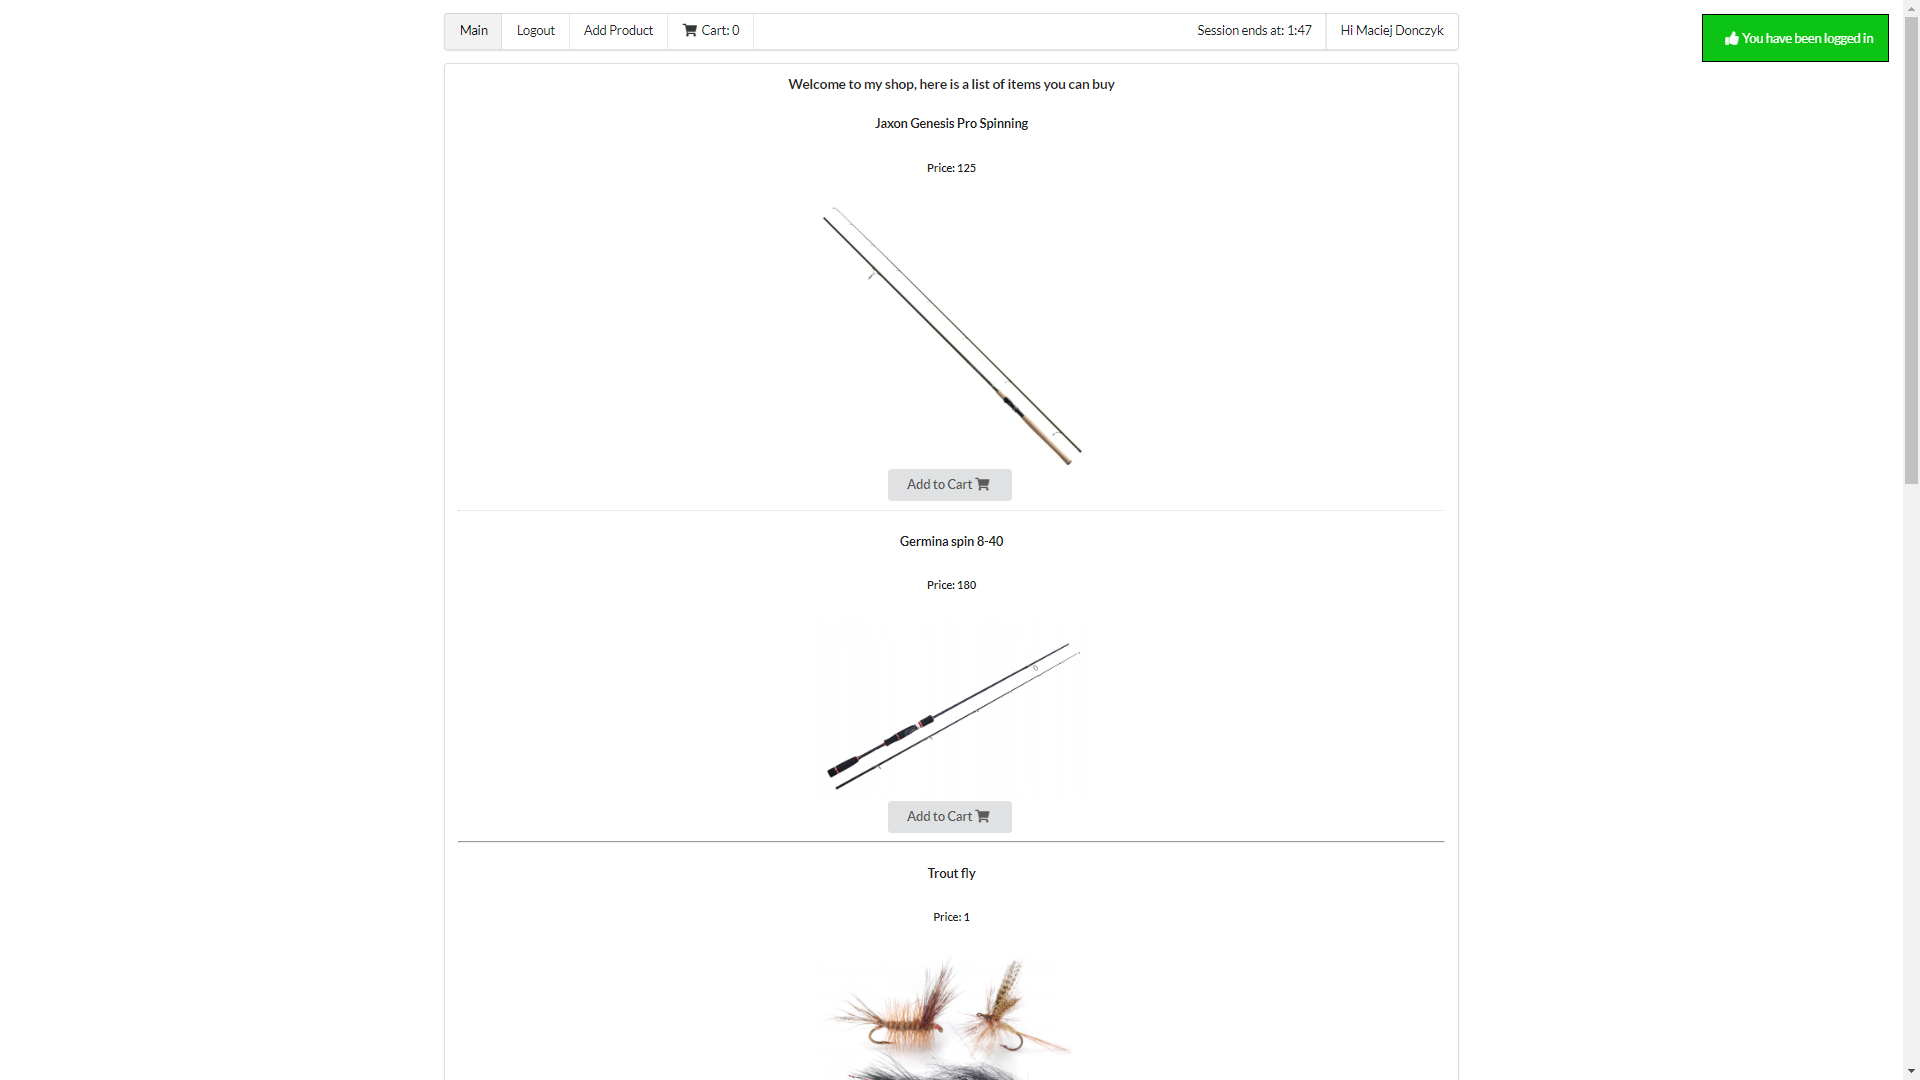
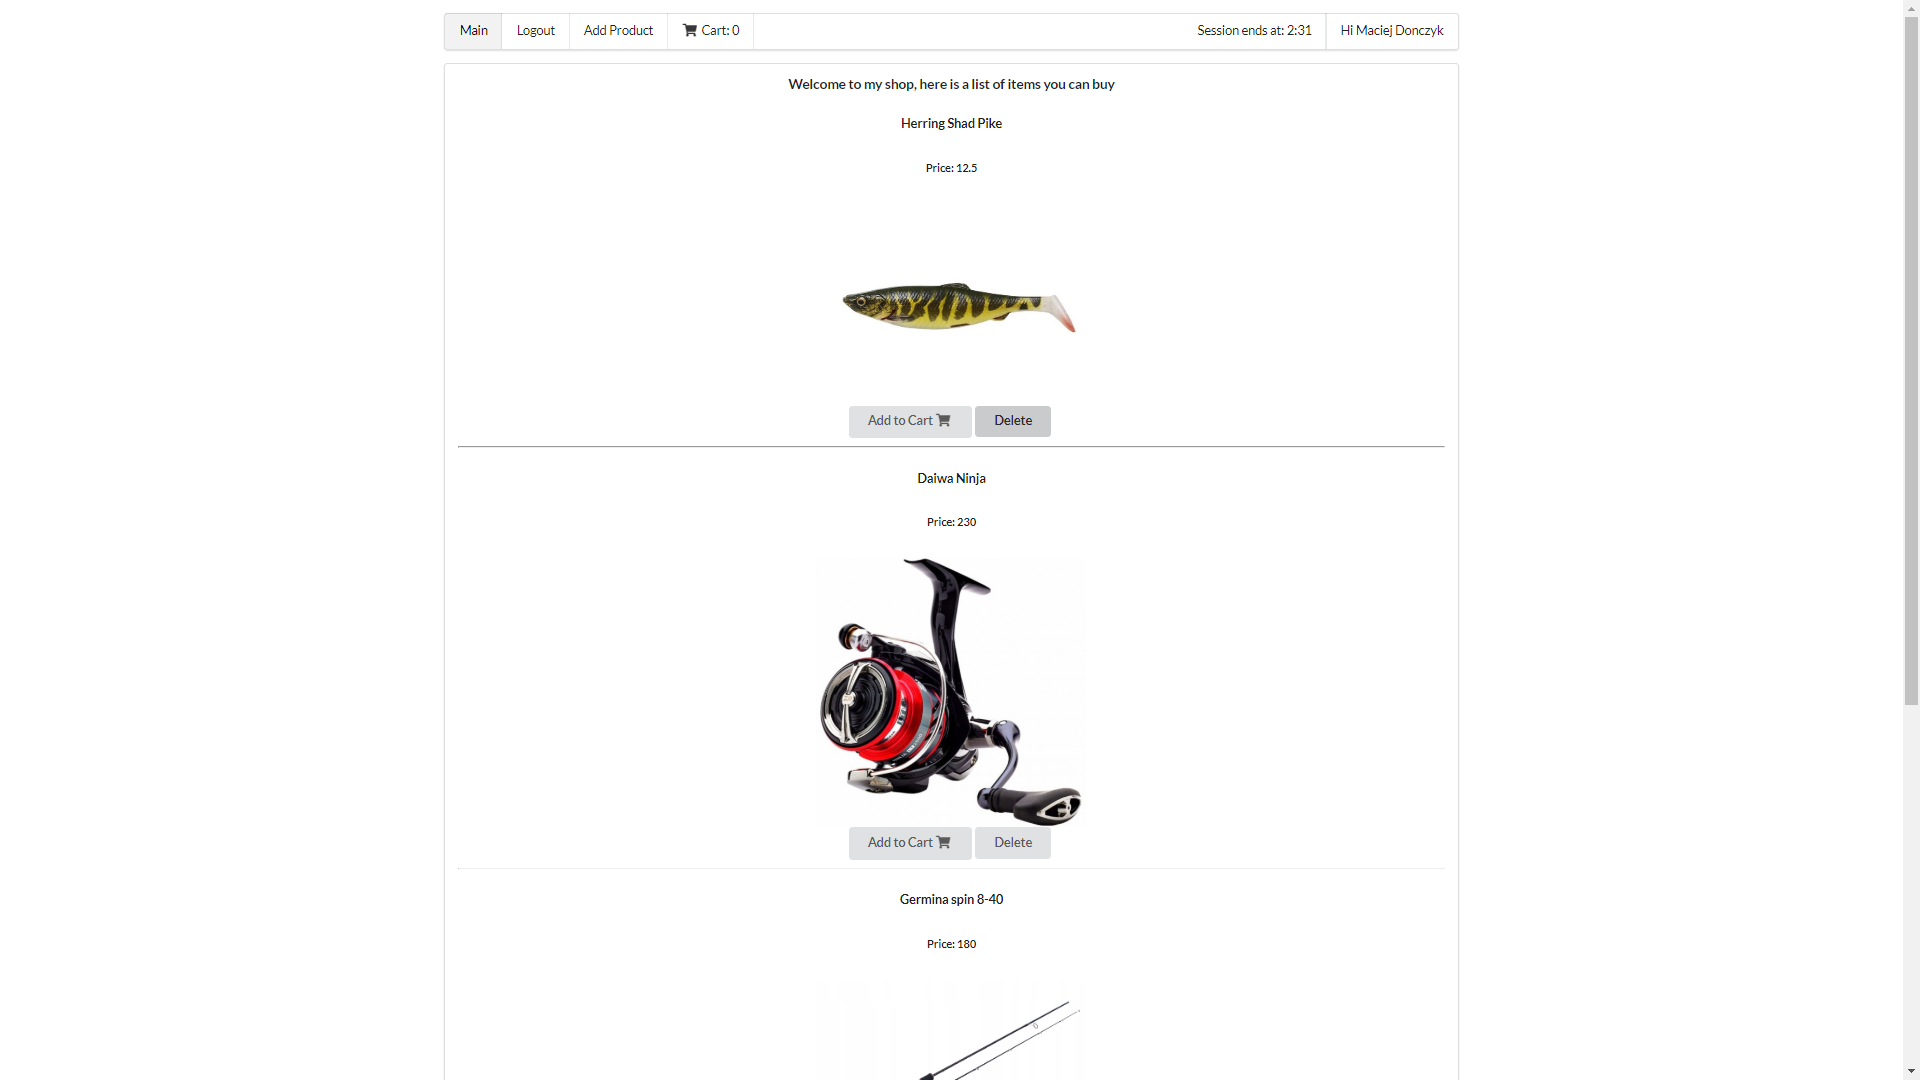
created removing products from shop method in react

diff --git a/EasyCatch.SPA/src/components/Sections/Products/ProductItem.js b/EasyCatch.SPA/src/components/Sections/Products/ProductItem.js
@@ -3,35 +3,70 @@ import React, { Component } from 'react'
 export default class ProductItem extends Component {
 
     render() {
-        if(this.props.product.photoUrl[0] !== "h")
-        {
-        return (
-            <div>
-                <h5>{this.props.product.description}</h5>
-                <h6>Price: {this.props.product.price}</h6>
-                <img src={"https://localhost:5001/" + this.props.product.photoUrl} alt={this.props.product.name} className="ui medium image centered"></img>
-                <div className="ui button" onClick={this.props.addToCart.bind(this, this.props.product.id)}>
+        if(this.props.UserRole !=="Admin"){
+                if(this.props.product.photoUrl[0] !== "h")
+                {
+                return (
                     <div>
-                        Add to Cart <i className="shop icon"></i>
+                        <h5>{this.props.product.description}</h5>
+                        <h6>Price: {this.props.product.price}</h6>
+                        <img src={"https://localhost:5001/" + this.props.product.photoUrl} alt={this.props.product.name} className="ui medium image centered"></img>
+                        <div className="ui button" onClick={this.props.addToCart.bind(this, this.props.product.id)}>
+                            <div>
+                                Add to Cart <i className="shop icon"></i>
+                            </div>
+                        </div>
+                        <hr/>
                     </div>
-                </div>
-                <hr/>
-            </div>
-        )
-    } else {
-        return(
-            <div>
-                <h5>{this.props.product.description}</h5>
-                <h6>Price: {this.props.product.price}</h6>
-                <img src={this.props.product.photoUrl} alt={this.props.product.name} className="ui medium image centered"></img>
-                <div className="ui button" onClick={this.props.addToCart.bind(this, this.props.product.id)}>
+                )
+            } else {
+                return(
                     <div>
-                        Add to Cart <i className="shop icon"></i>
+                        <h5>{this.props.product.description}</h5>
+                        <h6>Price: {this.props.product.price}</h6>
+                        <img src={this.props.product.photoUrl} alt={this.props.product.name} className="ui medium image centered"></img>
+                        <div className="ui button" onClick={this.props.addToCart.bind(this, this.props.product.id)}>
+                            <div>
+                                Add to Cart <i className="shop icon"></i>
+                            </div>
+                        </div>
+                        <hr/>
                     </div>
-                </div>
-                <hr/>
-            </div>
-        )
-    }
+                )
+            }
+        } else {
+            if(this.props.product.photoUrl[0] !== "h")
+                {
+                return (
+                    <div>
+                        <h5>{this.props.product.description}</h5>
+                        <h6>Price: {this.props.product.price}</h6>
+                        <img src={"https://localhost:5001/" + this.props.product.photoUrl} alt={this.props.product.name} className="ui medium image centered"></img>
+                        <div className="ui button" onClick={this.props.addToCart.bind(this, this.props.product.id)}>
+                            <div>
+                                Add to Cart <i className="shop icon"></i>
+                            </div>
+                        </div>
+                        <button className="ui button" onClick={this.props.deleteProduct.bind(this, this.props.product.id)}>Delete</button>
+                        <hr/>
+                    </div>
+                )
+            } else {
+                return(
+                    <div>
+                        <h5>{this.props.product.description}</h5>
+                        <h6>Price: {this.props.product.price}</h6>
+                        <img src={this.props.product.photoUrl} alt={this.props.product.name} className="ui medium image centered"></img>
+                        <div className="ui button" onClick={this.props.addToCart.bind(this, this.props.product.id)}>
+                            <div>
+                                Add to Cart <i className="shop icon"></i>
+                            </div>
+                        </div>
+                        <button className="ui button" onClick={this.props.deleteProduct.bind(this, this.props.product.id)}>Delete</button>
+                        <hr/>
+                    </div>
+                )
+            }
+        }
 }
 }

diff --git a/EasyCatch.SPA/src/components/App.js b/EasyCatch.SPA/src/components/App.js
@@ -259,7 +259,21 @@ class App extends React.Component {
         itemsQuantity: this.state.itemsQuantity -1
       })
     }
-    
+    deleteProduct = (productId) => {
+      const headers = {
+        "Authorization": "Bearer " + localStorage.getItem("token")
+      }
+      axios.delete(`https://localhost:5001/api/product/${productId}`, {
+        headers: headers
+      })
+      .then( result => {
+        notify("You have succesfully deleted the product!", "success")
+        this.loadNewListOfProducts()
+      })
+      .catch( (err) => {
+        notify("Error while deleting product","error")
+      })
+    }
     state = {
         User: {
             login: "None",
@@ -312,6 +326,8 @@ class App extends React.Component {
                             errors = {this.state.Errors}
                             loadNewListOfProducts={this.loadNewListOfProducts}
                             decreaseQuantityOfProductsInCart={this.decreaseQuantityOfProductsInCart}
+                            UserRole={this.state.UserRole}
+                            deleteProduct={this.deleteProduct}
                             >
                       </Main>
                   </div>

diff --git a/EasyCatch.SPA/src/components/Main.js b/EasyCatch.SPA/src/components/Main.js
@@ -20,6 +20,8 @@ return(
             <Route path="/" exact component={ () => <ItemsList
                                                         products={this.props.products}
                                                         addToCart={this.props.addToCart}
+                                                        UserRole={this.props.UserRole}
+                                                        deleteProduct={this.props.deleteProduct}
             />}/>
             <Route path="/Register" component={ () => <Register
                                                         register = {this.props.register}

diff --git a/EasyCatch.SPA/src/components/Sections/Products/ItemsList.js b/EasyCatch.SPA/src/components/Sections/Products/ItemsList.js
@@ -6,7 +6,7 @@ class ItemsList extends React.Component{
         return(
             <div className = "ui center aligned segment">
                 <h4>Welcome to my shop, here is a list of items you can buy</h4>
-                <Products products={this.props.products} addToCart = {this.props.addToCart}/>
+                <Products products={this.props.products} addToCart = {this.props.addToCart} UserRole={this.props.UserRole} deleteProduct={this.props.deleteProduct}/>
             </div>
         )
     }

diff --git a/EasyCatch.SPA/src/components/Sections/Products/Products.js b/EasyCatch.SPA/src/components/Sections/Products/Products.js
@@ -3,6 +3,6 @@ import Product from './ProductItem'
 
 export default class Products extends Component {
     render() {
-        return this.props.products.map((product) => <h3 key={product.id}><Product product = {product} addToCart={this.props.addToCart}/></h3>)
+        return this.props.products.map((product) => <h3 key={product.id}><Product product = {product} addToCart={this.props.addToCart} UserRole={this.props.UserRole} deleteProduct={this.props.deleteProduct}/></h3>)
     }
 }
